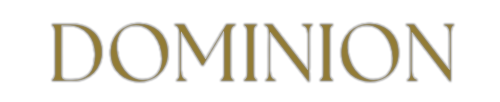
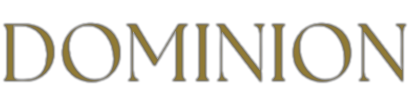
css footer and responsive

diff --git a/frontend/src/components/footer.js b/frontend/src/components/footer.js
@@ -5,57 +5,105 @@ import Col from 'react-bootstrap/Col';
 import Link from 'next/link';
 import Button from 'react-bootstrap/Button';
 import Form from 'react-bootstrap/Form';
+import Image from 'react-bootstrap/Image';
+import ListGroup from 'react-bootstrap/ListGroup';
+import { LuMapPin, LuMail, LuPhone } from 'react-icons/lu';
+import { BsYoutube, BsTwitter, BsFacebook, BsInstagram } from 'react-icons/bs';
+
+const links = [
+    { href: '/', text: 'Trang chủ' },
+    { href: '/rooms&suites', text: 'Phòng nghỉ' },
+    { href: '/restaurant', text: 'Ẩm thực' },
+    { href: '/gallery', text: 'Thư viện' },
+    { href: '/blogs', text: 'Sự kiện' },
+];
+
+const contacts = [
+    { icon: <LuMapPin />, text: 'Võ Văn Ngân' },
+    { icon: <LuMail />, text: 'info@dominion.com' },
+    { icon: <LuPhone />, text: '0123456789' },
+]
+
+const socials = [
+    { icon: <BsFacebook />, text: 'Facebook', link: '' },
+    { icon: <BsInstagram />, text: 'Instagram', link: '' },
+    { icon: <BsTwitter />, text: 'Twitter', link: '' },
+    { icon: <BsYoutube />, text: 'Youtube', link: '' },
+]
 
 function AppHeader() {
-  return (
-    <footer expand="lg" className="bg-body-tertiary">
-      <Container>
-      <Row>
-        <Col>
-            <p>Nulla lobortis diam orci, nec semper est convallis ac. Quisque vitae orci sem. Vivamus hendrerit est lorem.</p>
-        </Col>
-        <Col>
-            <h5>Giới Thiệu</h5>
-            <ul>
-                <li>
-                    <Link href={"#"}>Trang chủ</Link>
-                </li>
-                <li>
-                    <Link href={"#"}>Phòng nghỉ</Link>
-                </li>
-                <li>
-                    <Link href={"#"}>Ẩm thực</Link>
-                </li>
-                <li>
-                    <Link href={"#"}>Thông tin</Link>
-                </li>
-                <li>
-                    <Link href={"#"}>Sự kiện</Link>
-                </li>
-            </ul>
-        </Col>
-        <Col>
-            <h5>Liên Hệ</h5>
-        </Col>
-        <Col>
-            <h5>Theo dõi</h5>
-            <p>Để nhận thông tin cập nhật về trải nghiệm độc quyền, sự kiện, điểm đến mới và nhiều thông tin khác, vui lòng đăng ký thông tin mà bạn quan tâm.</p>
-            <Form>
-                <Form.Group className="mb-3" controlId="formBasicEmail">
-                    <Form.Control type="email" placeholder="Nhập địa chỉ mail của bạn" />
-                    <Button variant="primary" type="submit" className="w-100">
-                        Submit
-                    </Button>
-                </Form.Group>
-            </Form>
-        </Col>
-      </Row>
-      <Row>
-        <p className="text-center">Copyright 2022, Dominion Resorts Ltd.</p>
-      </Row>
-      </Container>
-    </footer>
-  );
+    return (
+        <footer expand="lg" className="bg-body-tertiary">
+            <Container>
+                <Row className='mb-5'>
+                    <Col className='col-12 col-sm-6 col-lg-3'>
+                        <ListGroup>
+                            <ListGroup.Item>
+                                <Image src="/dominion-logo.png"
+                                    width={50}
+                                    height={36}
+                                    alt="Dominion Logo">
+                                </Image>
+                            </ListGroup.Item>
+                            <ListGroup.Item>
+                                <Image src="/dominion--.png"
+                                    width={120}
+                                    height={30}
+                                    alt="Dominion logo">
+                                </Image>
+                            </ListGroup.Item>
+                        </ListGroup>
+                        <p className='mt-2'>
+                            Nulla lobortis diam orci, nec semper est convallis ac. Quisque vitae orci sem. Vivamus hendrerit est lorem.
+                        </p>
+                        <div className='socialsing'>
+                            {socials.map((social, index) => (
+                                <Link href={social.link} key={index} data-bs-toggle="tooltip" data-bs-placement="bottom" title={social.text}>{social.icon}</Link>
+                            ))}
+                        </div>
+                    </Col>
+                    <Col className='col-12 col-sm-6 col-lg-3'>
+                        <h5>Giới Thiệu</h5>
+                        <ul className='list-unstyled'>
+                            {links.map((link, index) => (
+                                <li>
+                                    <Link href={link.href} key={index} className='text-decoration-none'>{link.text}</Link>
+                                </li>
+                            ))}
+                        </ul>
+                    </Col>
+                    <Col className='col-12 col-sm-6 col-lg-3'>
+                        <h5>Liên Hệ</h5>
+                        <ul className='list-unstyled'>
+                            {contacts.map((contact, index) => (
+                                <li>
+                                    <span className='navIcon'>{contact.icon}</span>
+                                    <span className='ms-2'>{contact.text}</span>
+                                </li>
+                            ))}
+                        </ul>
+                    </Col>
+                    <Col className='col-12 col-sm-6 col-lg-3'>
+                        <h5>Theo dõi</h5>
+                        <p>Để nhận thông tin cập nhật về trải nghiệm độc quyền, sự kiện, điểm đến mới và nhiều thông tin khác, vui lòng đăng ký thông tin mà bạn quan tâm.</p>
+                        <Form>
+                            <Form.Group className="mb-3" controlId="formBasicEmail">
+                                <Form.Control type="email" placeholder="Nhập địa chỉ mail của bạn" />
+                                <Button variant="primary" type="submit" className="w-100 mt-3">
+                                    Submit
+                                </Button>
+                            </Form.Group>
+                        </Form>
+                    </Col>
+                </Row>
+                <Row>
+                    <div className='coppyright'>
+                        <p className="text-center text-body-tertiary py-4 mb-0">Copyright 2022, Dominion Resorts Ltd.</p>
+                    </div>
+                </Row>
+            </Container>
+        </footer>
+    );
 }
 
 export default AppHeader;

diff --git a/frontend/src/app/custom.css b/frontend/src/app/custom.css
@@ -1,3 +1,4 @@
+/* HEADER */
 .bg-body-tertiary {
     background-color: #FFFFFF !important;
 }
@@ -6,11 +7,11 @@
     color: #E4A853;
 }
 
-.navbar-nav a{
+.navbar-nav a {
     color: black;
 }
 
-.navbar-nav a:hover{
+.navbar-nav a:hover {
     color: #AA8453;
 }
 
@@ -27,7 +28,7 @@
     align-items: center;
 }
 
-#responsive-navbar-nav .navbar-nav:last-child{
+#responsive-navbar-nav .navbar-nav:last-child {
     border-top: 1px solid rgba(170, 132, 83, 0.24);
 }
 
@@ -40,3 +41,143 @@
     background-color: #E4A853;
     border: 1px solid #AA8453;
 }
+
+/* END HEADER */
+
+/* FOOTER */
+.container .row .col ul li a {
+    color: #666;
+}
+
+.container .row .col ul li {
+    margin-bottom: 16px;
+}
+
+.container .row .col ul li a:hover {
+    color: #E4A853;
+}
+
+footer .list-group .list-group-item:first-child {
+    text-align: center;
+    max-width: 40%;
+    margin-bottom: 6px;
+}
+
+.list-group-item {
+    padding: 0;
+    border: unset;
+    max-width: 50%;
+}
+
+footer .row .col form input {
+    border: 1px solid #E4A853;
+}
+
+footer .row .col form button {
+    background-color: #AA8453;
+    border: none;
+}
+
+footer .row .col form button:hover {
+    background-color: #E4A853;
+}
+
+footer .coppyright {
+    border-top: 1px solid rgba(102, 102, 102, 0.50);
+}
+
+footer .socialsing {
+    display: flex;
+    justify-content: space-between;
+    max-width: 90%;
+}
+
+footer .socialsing a {
+    color: #AA8453;
+    font-size: 30px;
+}
+
+/* END FOOTER */
+
+/* REPONSIVE */
+/* Phones */
+@media only screen and (max-width:576px) {
+    #responsive-navbar-nav .navbar-nav:first-child{
+        display: none;
+    }
+
+    footer .container .col-sm-6 {
+        margin-bottom: 36px;
+    }
+
+    footer .container .col-sm-6:last-child {
+        margin-bottom: 0;
+    }
+
+    footer .list-group .list-group-item:first-child {
+        text-align: left;
+    }
+
+    footer .socialsing {
+        justify-content: flex-start;
+    }
+
+    footer .socialsing a {
+        margin-right: 26px;
+    }
+
+    footer .container .row .list-group {
+        display: flex;
+        flex-direction: row;
+        align-items: center;
+    }
+
+    footer .container .row .list-group .list-group-item:first-child{
+        margin-right: 16px;
+    }
+}
+
+/* Tablets */
+@media only screen and (min-width:576px) {
+    #responsive-navbar-nav {
+        font-size: 0.84rem;
+    }
+
+    #responsive-navbar-nav .navbar-nav:first-child{
+        display: none;
+    }
+
+    footer .container .col-sm-6 {
+        margin-bottom: 36px;
+    }
+
+    footer .container .row .list-group {
+        display: flex;
+        flex-direction: row;
+        align-items: center;
+    }
+
+    footer .socialsing {
+        justify-content: flex-start;
+    }
+
+    footer .socialsing a {
+        margin-right: 26px;
+    }
+
+    .container .row .col ul li {
+        margin-bottom: 6px;
+    }
+}
+
+@media only screen and (min-width:1200px) {
+    #responsive-navbar-nav {
+        font-size: 1rem;
+    }
+
+    #responsive-navbar-nav .navbar-nav:first-child{
+        display: flex;
+    }
+}
+
+/* END REPONSIVE */

diff --git a/frontend/src/components/header.js b/frontend/src/components/header.js
@@ -46,7 +46,7 @@ function AppHeader() {
           </Image>
           <Image src="/dominion--.png"
             width={120}
-            height={25}
+            height={30}
             alt="Dominion logo">
           </Image>
         </Navbar.Brand>
